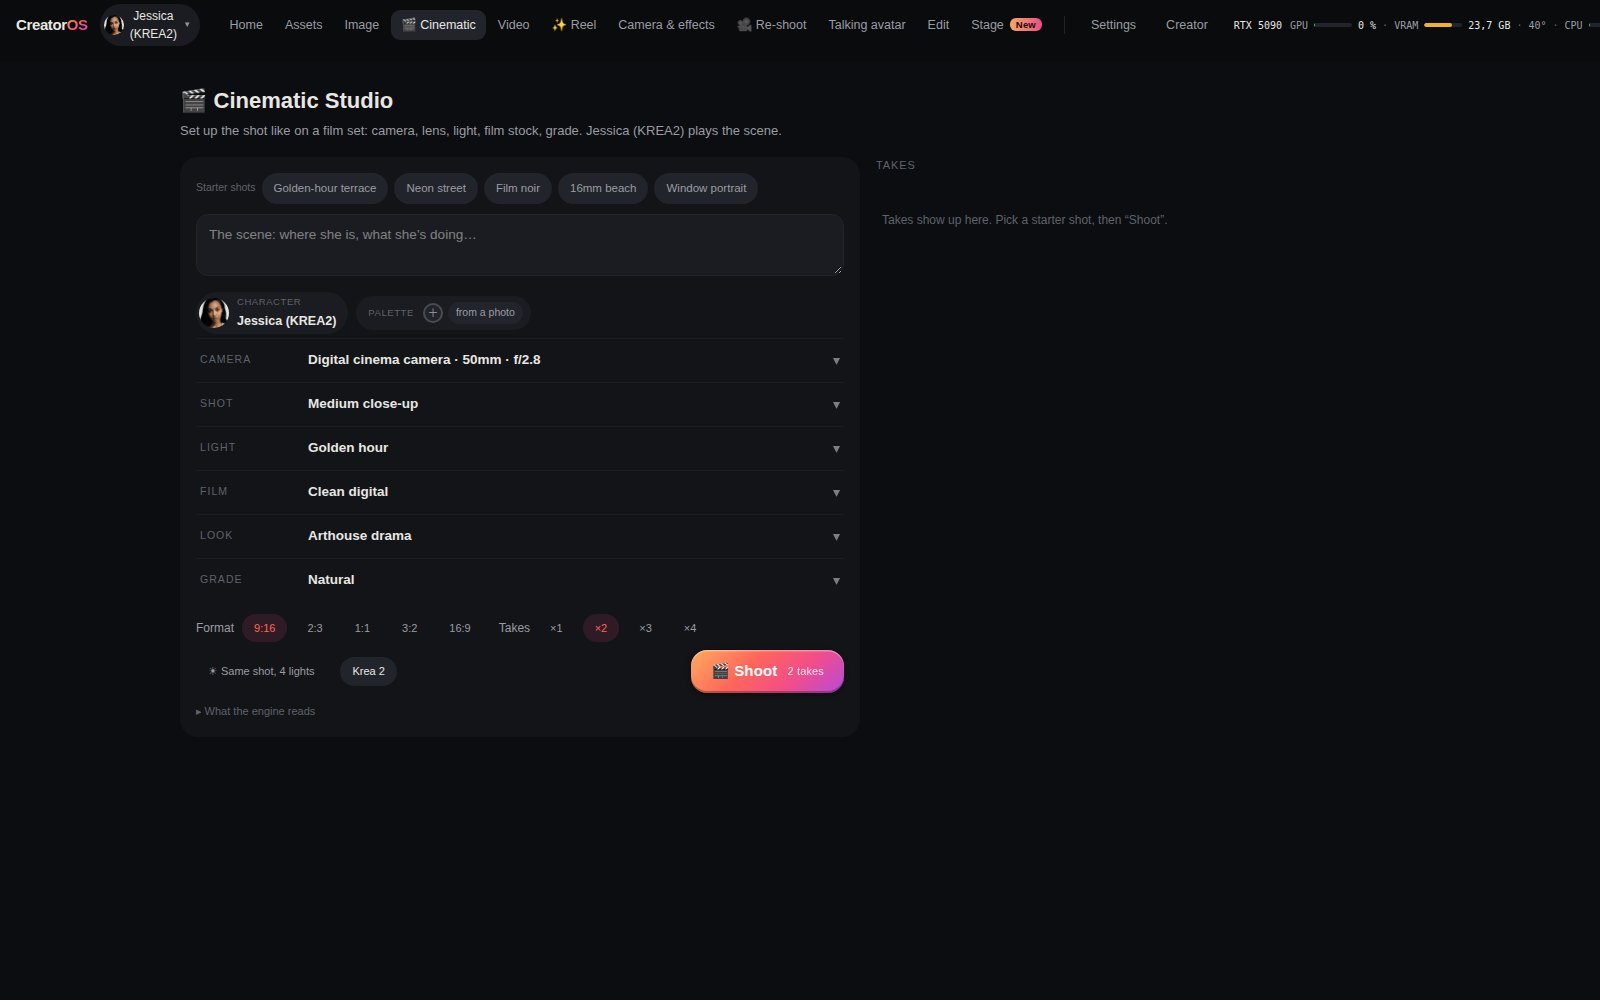
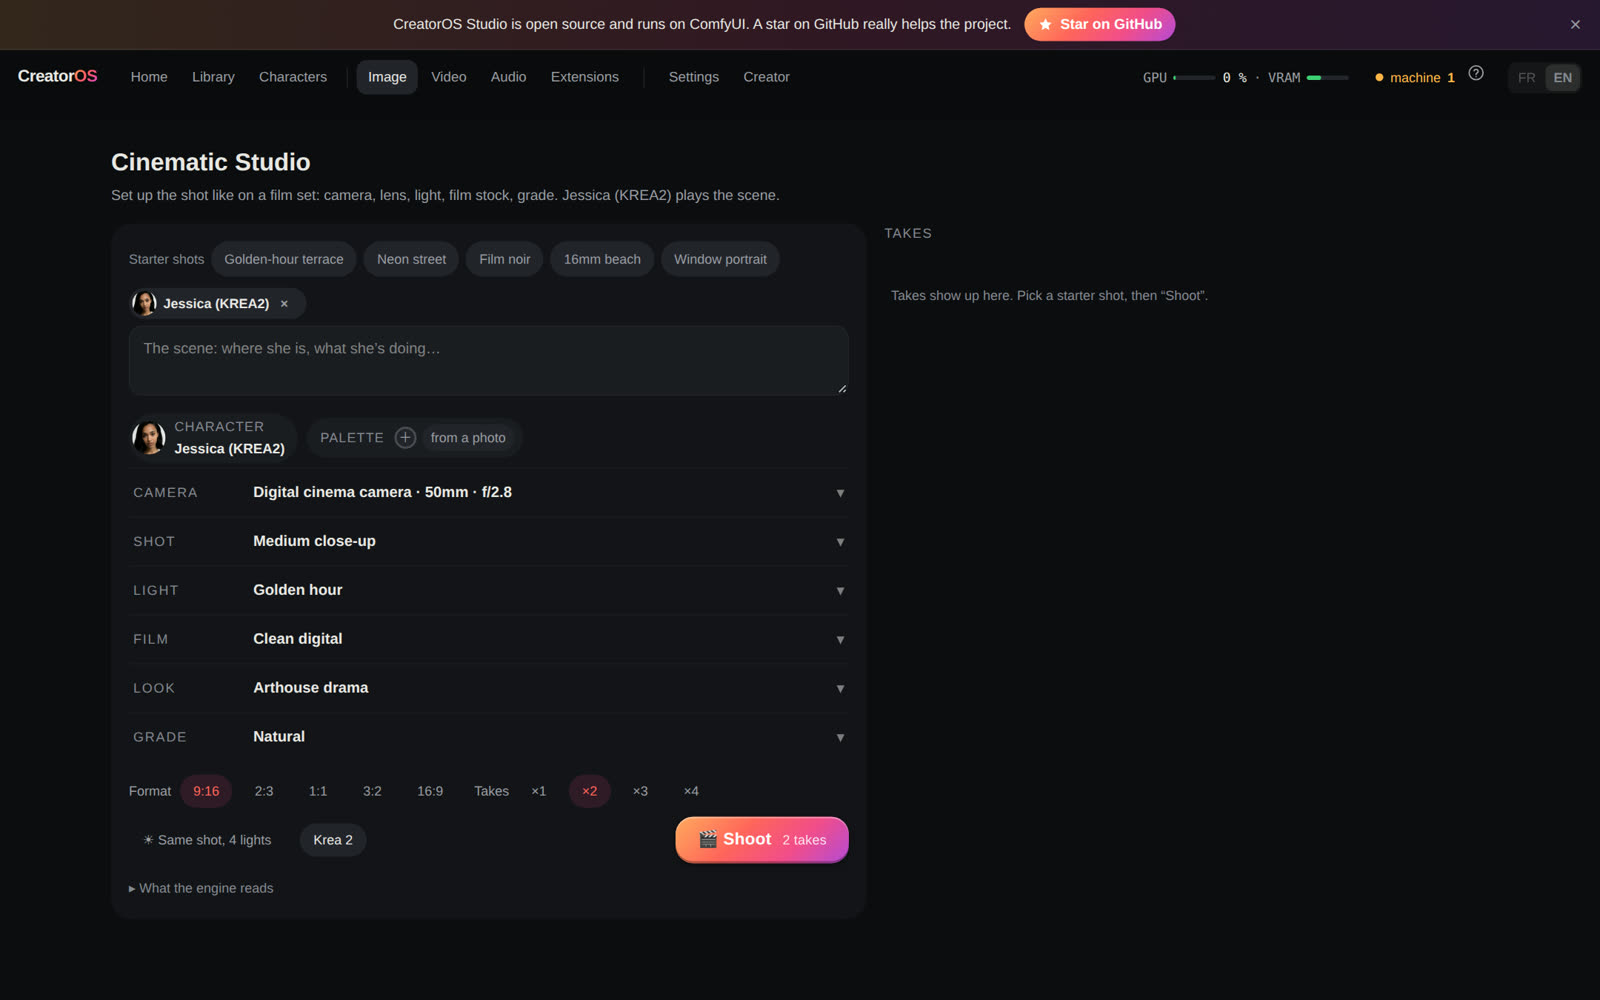
README: new demo video (https://youtu.be/0muDKpkbcWw) and fresh screenshots of the current UI

diff --git a/README.md b/README.md
@@ -5,7 +5,7 @@
 ![Real renders from the studio: reel, camera moves, sketch to video, re-shoot, 3D Stage, talking avatar, text to video, restore](docs/screenshots/renders.gif)
 
 - **Try it now**: https://forge.taila06702.ts.net:8443 — the public demo runs on the author's RTX 5090, one render at a time, 12 images or clips per hour per visitor.
-- **Demo video**: https://youtu.be/axHdAXHv3Kk
+- **Demo video**: https://youtu.be/0muDKpkbcWw
 - **Run it yourself**: see [Install](#install).
 
 Built for the Comfy **#OpenSourceHiggsfield** challenge. Every model is open weights and runs locally: no API call, no credits, nothing leaves the machine.
@@ -94,18 +94,22 @@ Desktop UI (`src/v2`) and a mobile UI (`src/m`) are served by the same backend; 
 
 | | |
 |---|---|
+| ![Home](docs/screenshots/home.jpg) | ![Menus](docs/screenshots/menus.jpg) |
+| **Home**: every tool shows a real render; Cinema Studio featured | **Menus**: Image, Video, Audio and Extensions, with the names you know and the models behind them |
+| ![Styles](docs/screenshots/styles.jpg) | ![Character](docs/screenshots/character.jpg) |
+| **Styles**: 36 one-click looks, plus Relight and Expand mosaics | **Characters**: train a LoRA in the UI, profile, identity and voice |
+| ![One-click reel](docs/screenshots/reel.jpg) | ![Cinematic Studio](docs/screenshots/cinematic.jpg) |
+| **One-click reel**: brief, shots, clips, edit | **Cinematic Studio**: a shot card instead of a prompt |
+| ![Product Shot](docs/screenshots/product.jpg) | ![A page per tool](docs/screenshots/tool-page.jpg) |
+| **Product Shot**: packshot, scene, poster, your character with the product, a clip | **A page per tool**: source on the left, how it works and every past render on the right |
+| ![Camera moves](docs/screenshots/camera-effects.jpg) | ![Library](docs/screenshots/library.jpg) |
+| **Camera Moves & Effects**: pick a move, pick a photo | **Library**: folders, characters, images, videos and audio |
 | ![Stage](docs/screenshots/stage.jpg) | ![Viewer](docs/screenshots/viewer.jpg) |
-| **Stage**: block a shot on a 3D set, scrub the camera, get a finished shot | **Viewer**: full recipe, seed, render time, checks, ComfyUI workflow, reopen in Stage |
-| ![Camera & effects gallery](docs/screenshots/camera-effects.jpg) | ![One-click reel](docs/screenshots/reel.jpg) |
-| **Camera & effects**: pick a move, pick a photo | **One-click reel**: brief, shots, clips, edit |
-| ![Editor](docs/screenshots/editor.jpg) | ![Talking avatar](docs/screenshots/talking-avatar.jpg) |
-| **Editor**: timeline, trims, crossfades, text, music | **Talking avatar**: one photo, one voice |
-| ![Cinematic Studio](docs/screenshots/cinematic.jpg) | ![Re-shoot](docs/screenshots/reshoot.jpg) |
-| **Cinematic Studio**: a shot card instead of a prompt, same shot in four lights | **Re-shoot**: the same moment from a new camera angle, previewed in 3D |
-| ![Mix](docs/screenshots/mix.jpg) | |
-| **Mix**: drop in a video, your character takes the person's place | |
+| **Stage**: block a shot on a 3D set, scrub the camera, get a finished shot | **Viewer**: full recipe, seed, render time, checks, ComfyUI workflow |
+| ![Re-shoot](docs/screenshots/reshoot.jpg) | ![Talking avatar](docs/screenshots/talking-avatar.jpg) |
+| **Re-shoot**: the same moment from a new camera angle, previewed in 3D | **Talking avatar**: one photo, one voice |
 
-![Mobile: library, camera & effects, one-click reel](docs/screenshots/mobile.jpg)
+![Mobile: library and one-click reel](docs/screenshots/mobile.jpg)
 
 ## Architecture
 
